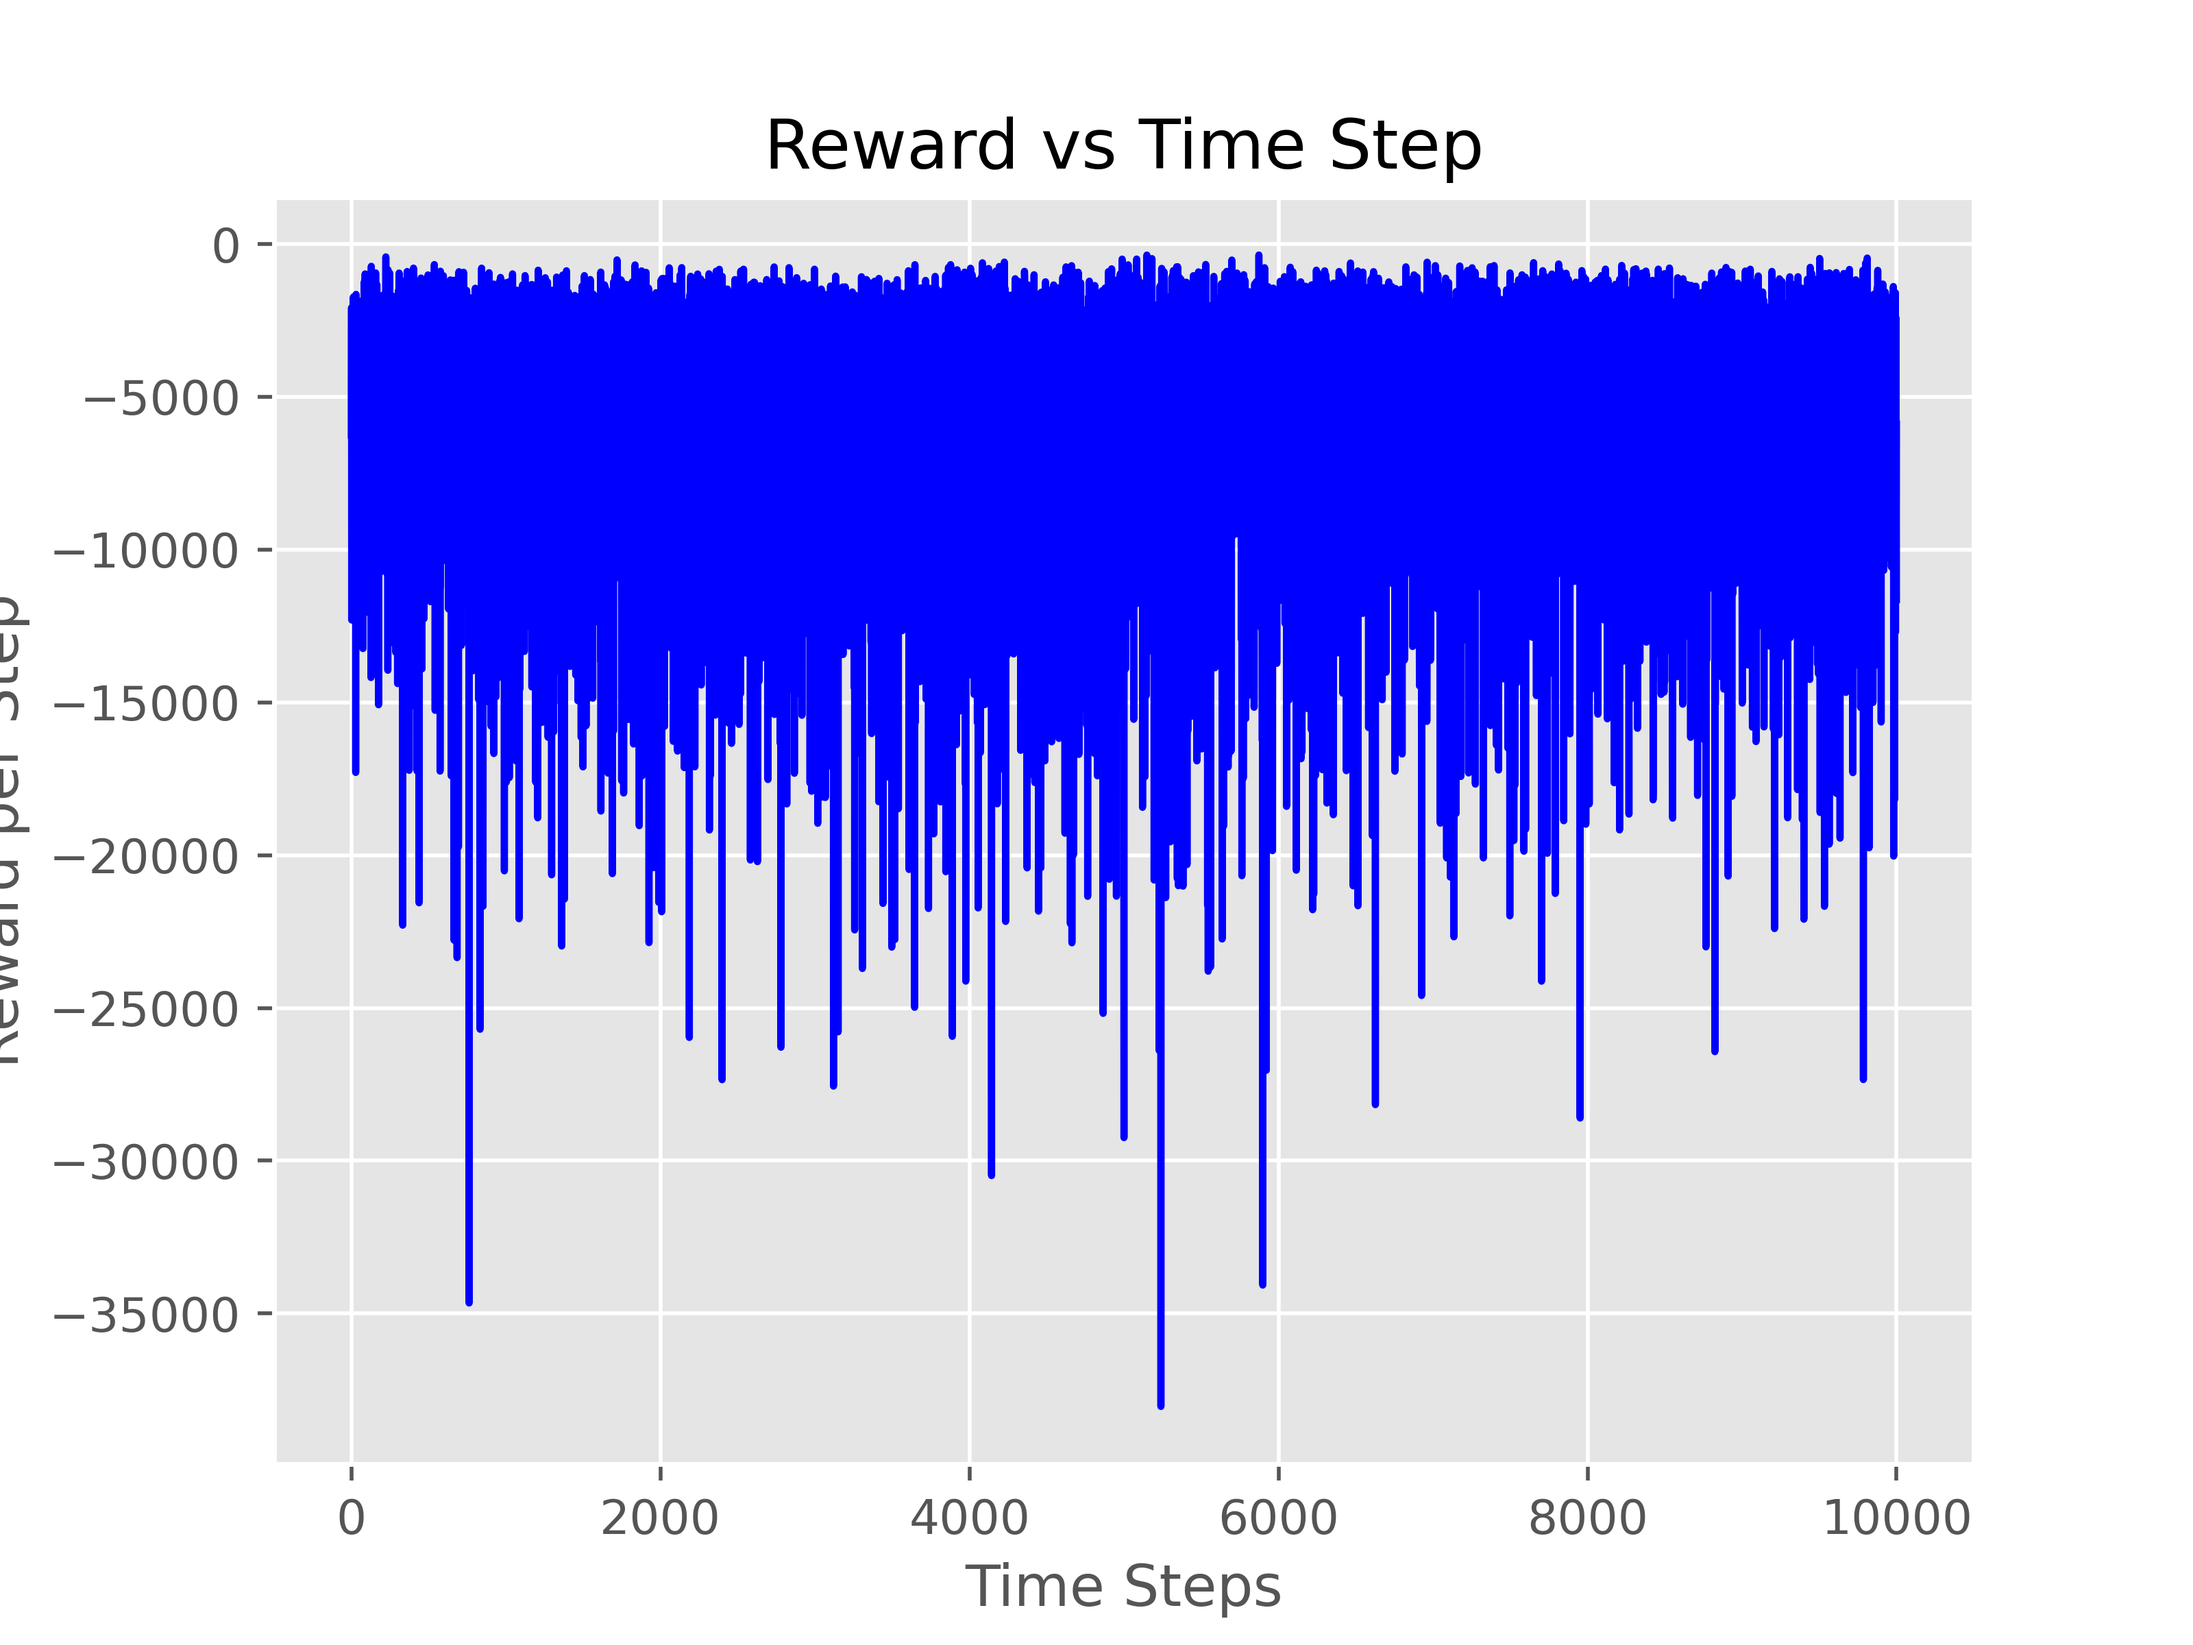
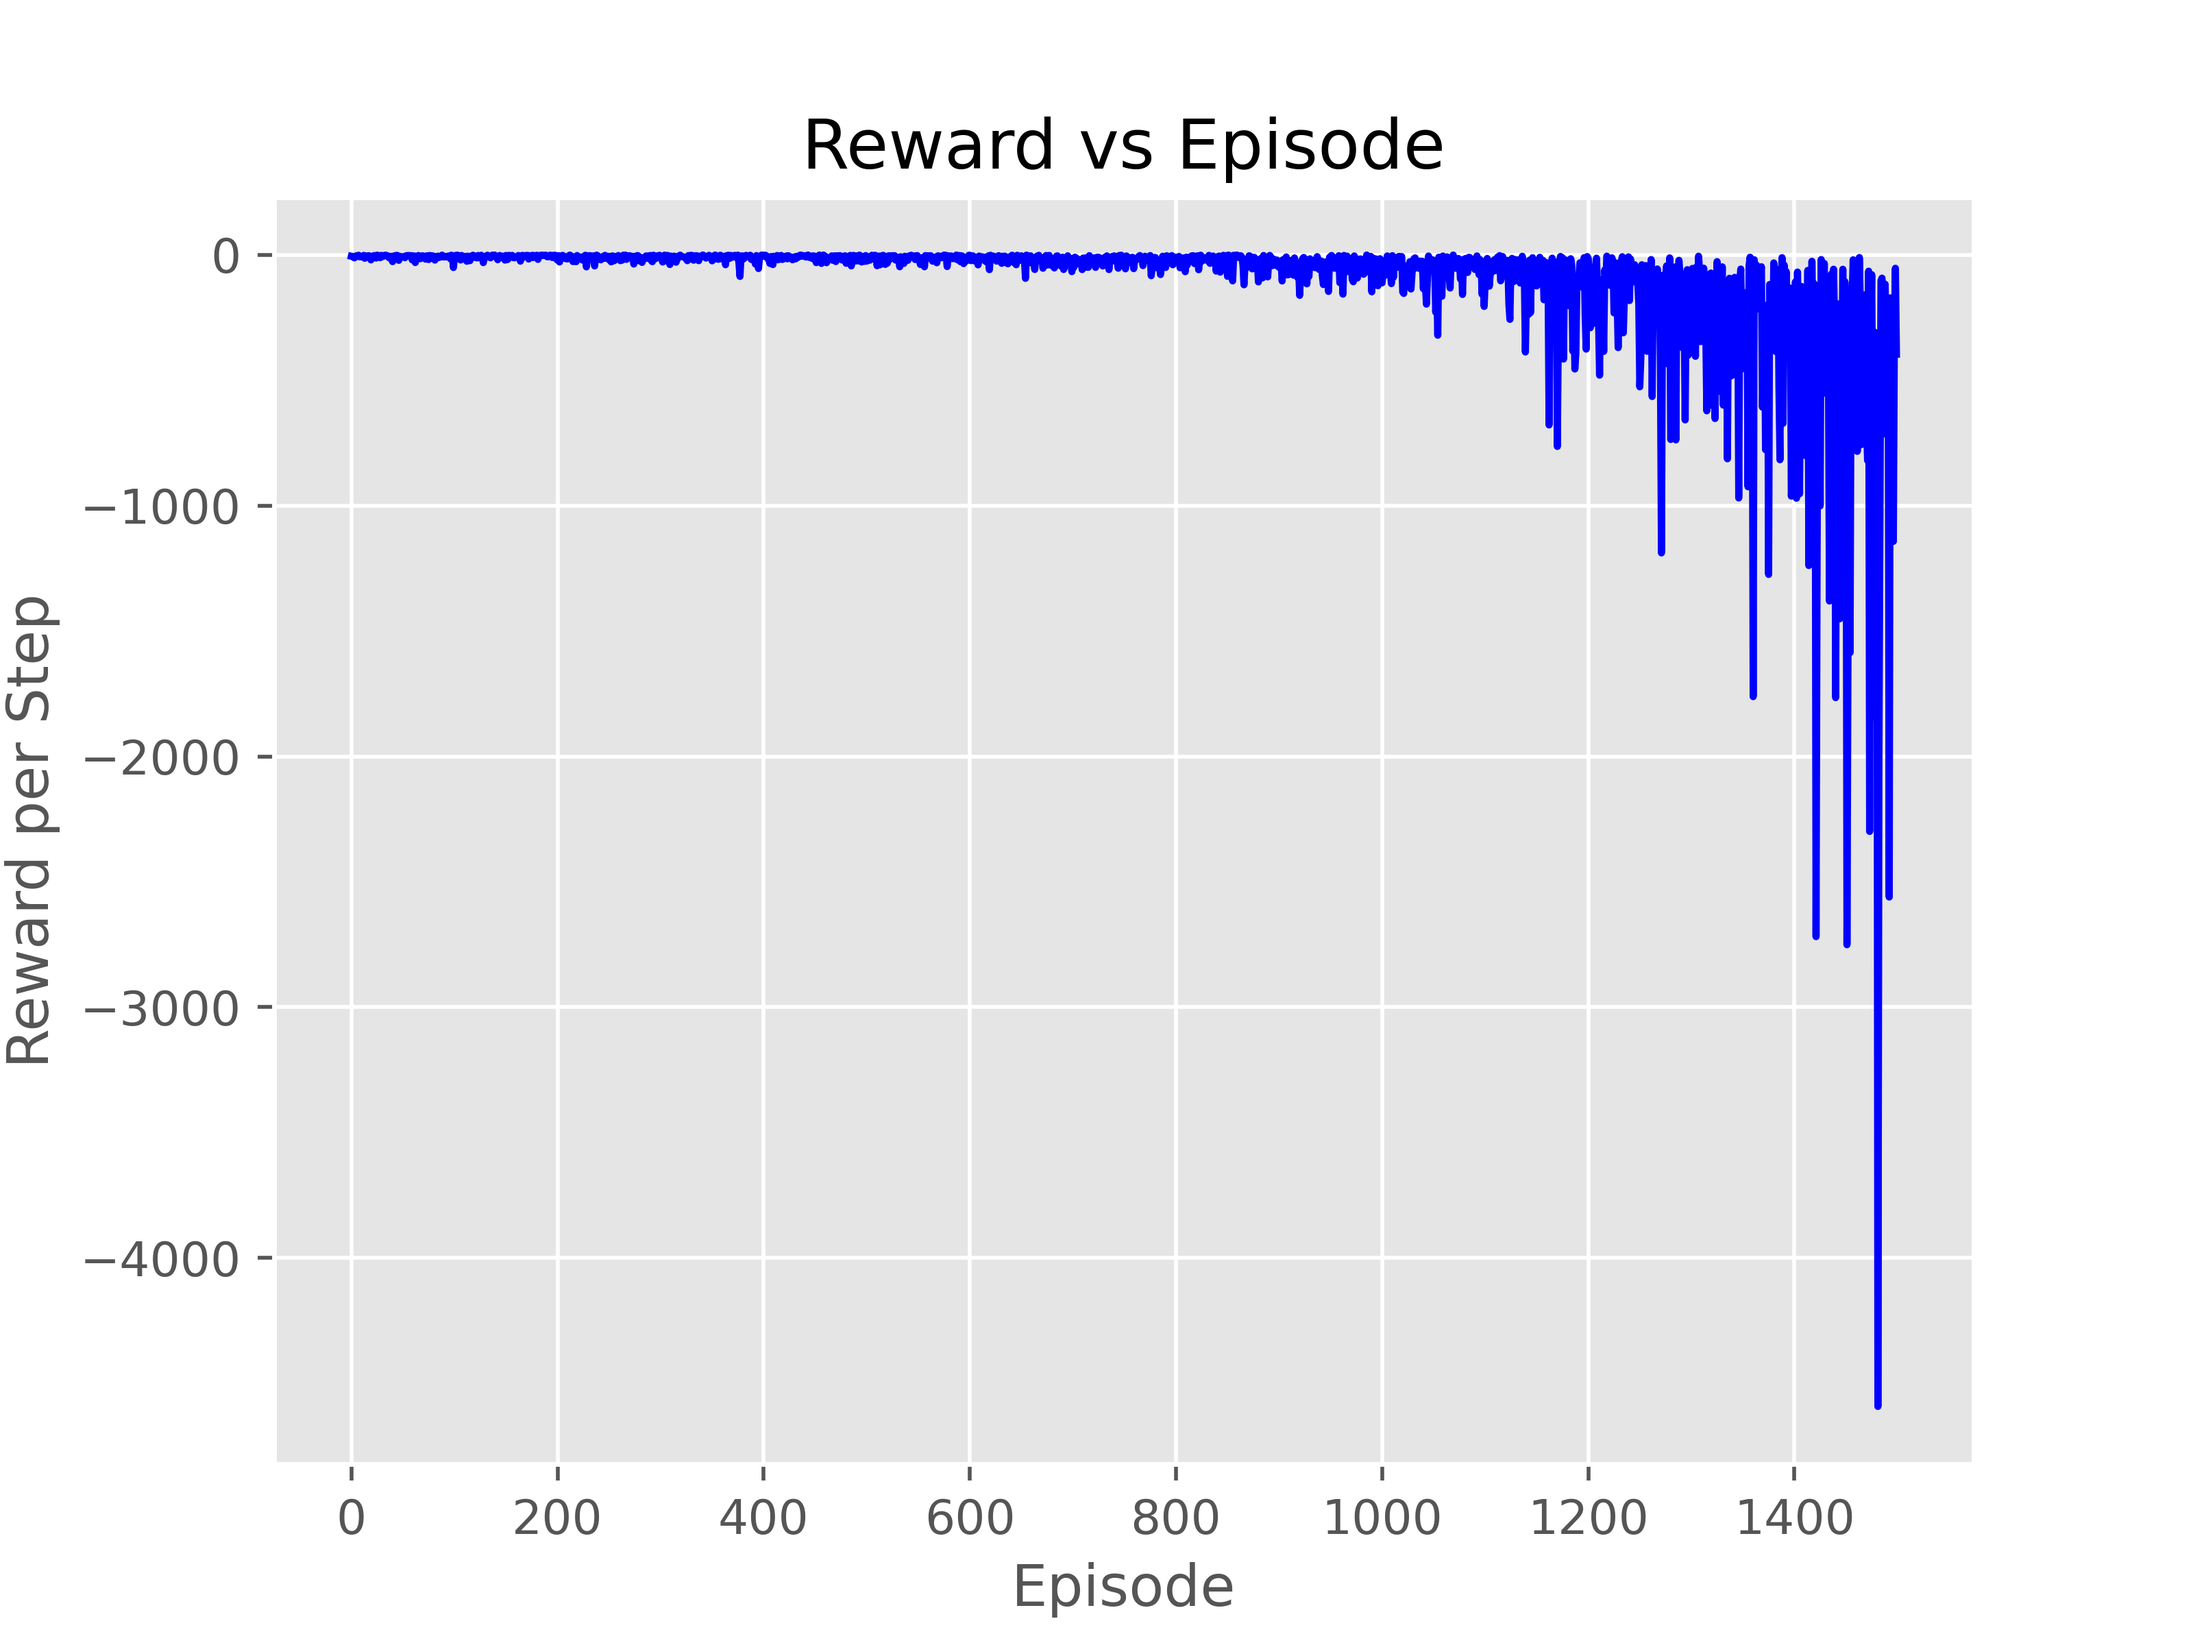
ok

diff --git a/actor_critic.py b/actor_critic.py
@@ -1,44 +1,59 @@
 from header_import import *
 
 
-class actor_critic(MountainCar3D):
-    def __init__(self):
+class actor_critic(MountainCar3D, plot_graphs):
+    def __init__(self, gamma = 0.8, lambda_theta = 0.05, lambda_weight = 0.05, alpha_theta = 0.7, alpha_weight = 0.7, episode = 10000, algorithm_name="actor_critic"):
         super().__init__()
-        self.number_of_action = 5
-        self.weight = np.zeros(self.number_of_action)
-        self.theta = np.zeros(self.number_of_action)
+
+        self.path = "graphs_charts/"
+        self.enviroment_path = self.path + "enviroment_details/"
+        self.model_detail_path = self.path + "model_details/"
+        self.algorithm_name = algorithm_name
+        self.gamma = gamma
+        self.lambda_theta = lambda_theta
+        self.lambda_weight = lambda_weight
+        self.alpha_theta = alpha_theta
+        self.alpha_weight = alpha_weight
+
+        self.epsilon = 1
+        self.delay_epsilon = 0.999
+        self.min_epsilon = 0.001
+        self.episode = episode
+        self.action_size = 5
+        self.weight = np.zeros(self.action_size)
+        self.theta = np.zeros(self.action_size)
         self.step_per_episode = []
         self.total_rewards = []
         self.Z_weight = np.zeros(self.weight.size)
         self.Z_theta = np.zeros(self.theta.size)
-    
+   
+
     def action_softmax(self, x_feature_vector):
         return np.exp(x_feature_vector - np.max(x_feature_vector)) / (np.exp(x_feature_vector - np.max(x_feature_vector))).sum(axis=0)
-
-    def policy(self, vector):
-        action_vector = np.zeros(vector.size)
-        action = random.random()
-        
-        for i in range(vector.size):
-            action_vector = np.sum(vector[:i+1])
-            if action >= vector[i]:
-                return i
-            else:
-                return np.random.randint(0, 5)
-        
     
-    def actor_critic_with_eligibility_traces(self, gamma = 0.1, lambda_theta = 0.0005, lambda_weight = 0.0005, alpha_theta = 2**-9, alpha_weight = 2**-6, number_of_episodes = 10000):
+    def epsilon_reduction(self):
+        if self.epsilon > self.min_epsilon:
+            self.epsilon *= self.delay_epsilon
 
-        for episode in tqdm(range(number_of_episodes), desc = "Episode"):
+    def policy(self, state):
+        if np.random.random() > self.epsilon:
+            return np.argmax(self.action_softmax(state))
+        else:
+            return np.random.randint(0, self.action_size)
+
+
+    def actor_critic_with_eligibility_traces(self):
+
+        for episode in tqdm(range(self.episode), desc = "Episode"):
             step = 0
             reward_count = 0
             state = self.reset()
             reached_goal = False
             I = 1
             state = np.append(0, state)
+
             while not reached_goal:
-                action_probability = self.action_softmax(state)
-                action = self.policy(action_probability)
+                action = self.policy(state)
                 action, reward, next_state, reached_goal = self.step(action)
                 reward_count += reward
                 next_state = np.append(0, next_state)
@@ -46,16 +61,19 @@ class actor_critic(MountainCar3D):
                 if reached_goal:
                     delta = reward - np.dot(state, self.weight)
                 else:
-                    delta = reward + gamma *(np.dot(next_state, self.weight)) - (np.dot(state, self.weight))
+                    delta = reward + self.gamma *(np.dot(next_state, self.weight)) - (np.dot(state, self.weight))
                 
-                self.Z_weight = gamma * lambda_weight * self.Z_weight + delta * (np.dot(state, self.weight))
-                self.Z_theta = gamma * lambda_theta * self.Z_theta + I * delta * self.action_softmax(state)
-                self.weight += alpha_weight * delta * self.Z_weight
-                self.theta += alpha_theta * delta * self.Z_theta
-                I = gamma * I
+                self.Z_weight = self.gamma * self.lambda_weight * self.Z_weight + delta * (np.dot(state, self.weight))
+                self.Z_theta = self.gamma * self.lambda_theta * self.Z_theta + I * delta * self.action_softmax(state)
+                self.weight += self.alpha_weight * delta * self.Z_weight
+                self.theta += self.alpha_theta * delta * self.Z_theta
+                I = self.gamma * I
                 state = next_state
                 step +=1
+
+            self.epsilon_reduction()
             self.step_per_episode.append(step)
             self.total_rewards.append(reward_count)
-    
-        return self.weight, self.step_per_episode, self.total_rewards
+
+        self.plot_episode_time_step(self.total_rewards, type_graph="cumulative_reward")
+        self.plot_episode_time_step(self.step_per_episode, type_graph = "step_number")

diff --git a/algorithm_analysis.py b/algorithm_analysis.py
@@ -3,17 +3,14 @@ from header_import import *
 if __name__ == "__main__":
     
     algorithm  = (sys.argv[1])
-    plot = plot_graphs()  
     
     if algorithm == "deep_q_learning_continues_and_experience_replay":
         deep_q_learning_obj = deep_q_learning_algorithm(episode = 10, algorithm_name="deep_q_learning", transfer_learning="true")
         deep_q_learning_obj.deep_q_learning()
 
     elif algorithm == "actor_critic":
-        actor_critic_obj = actor_critic()
-        weights, step_per_episode, episode_rewards = actor_critic_obj.actor_critic_with_eligibility_traces()
-        plot.plot_episode_time_step(episode_rewards, algorithm="actor_critic" ,type_graph = "cumulative_reward")
-        plot.plot_episode_time_step(step_per_episode, algorithm="actor_critic", type_graph = "step_number")
+        actor_critic_obj = actor_critic(episode = 1500, algorithm_name="actor_critic")
+        actor_critic_obj.actor_critic_with_eligibility_traces()
 
     elif algorithm == "double_deep_q_learning_continues_and_experience_replay":
         deep_q_learning_obj = deep_q_learning_algorithm(episode = 3, algorithm_name="double_deep_q_learning", transfer_learning="true")

diff --git a/plot_and_animation.py b/plot_and_animation.py
@@ -6,6 +6,7 @@ class plot_graphs(object):
         pass
 
 
+
     def plot_episode_time_step(self, data, type_graph):
 
         fig = plt.figure()
@@ -14,14 +15,14 @@ class plot_graphs(object):
 
         if type_graph == "cumulative_reward":
             axis.plot(data, color=color_graph)
-            axis.set_title("Reward vs Time Step")
-            axis.set_xlabel("Time Steps")
+            axis.set_title("Reward vs Episode")
+            axis.set_xlabel("Episode")
             axis.set_ylabel("Reward per Step")
         elif type_graph == "step_number":
             axis.plot(data, color=color_graph)
-            axis.set_title("Number of steps per episode vs. number of episodes")
-            axis.set_xlabel("Number of Steps")
-            axis.set_ylabel("Episodes")
+            axis.set_title("Number of steps per episode vs. Episode")
+            axis.set_xlabel("Episode")
+            axis.set_ylabel("step per episode")
         plt.savefig(self.enviroment_path + self.algorithm_name + "_" + type_graph + ".png", dpi =500)
 
 

diff --git a/mountain_car_enviroment.py b/mountain_car_enviroment.py
@@ -33,11 +33,11 @@ class MountainCar3D(object):
 
 
     def step(self, action):
-        reward = -1.0
+        reward = -0.01
         self.taken_action(action)
-
+        
         if self.goal_reached():
-            reward = 0
+            reward = 1
             self.reach_goal = True
 
         if self.reward_noise > 0:
